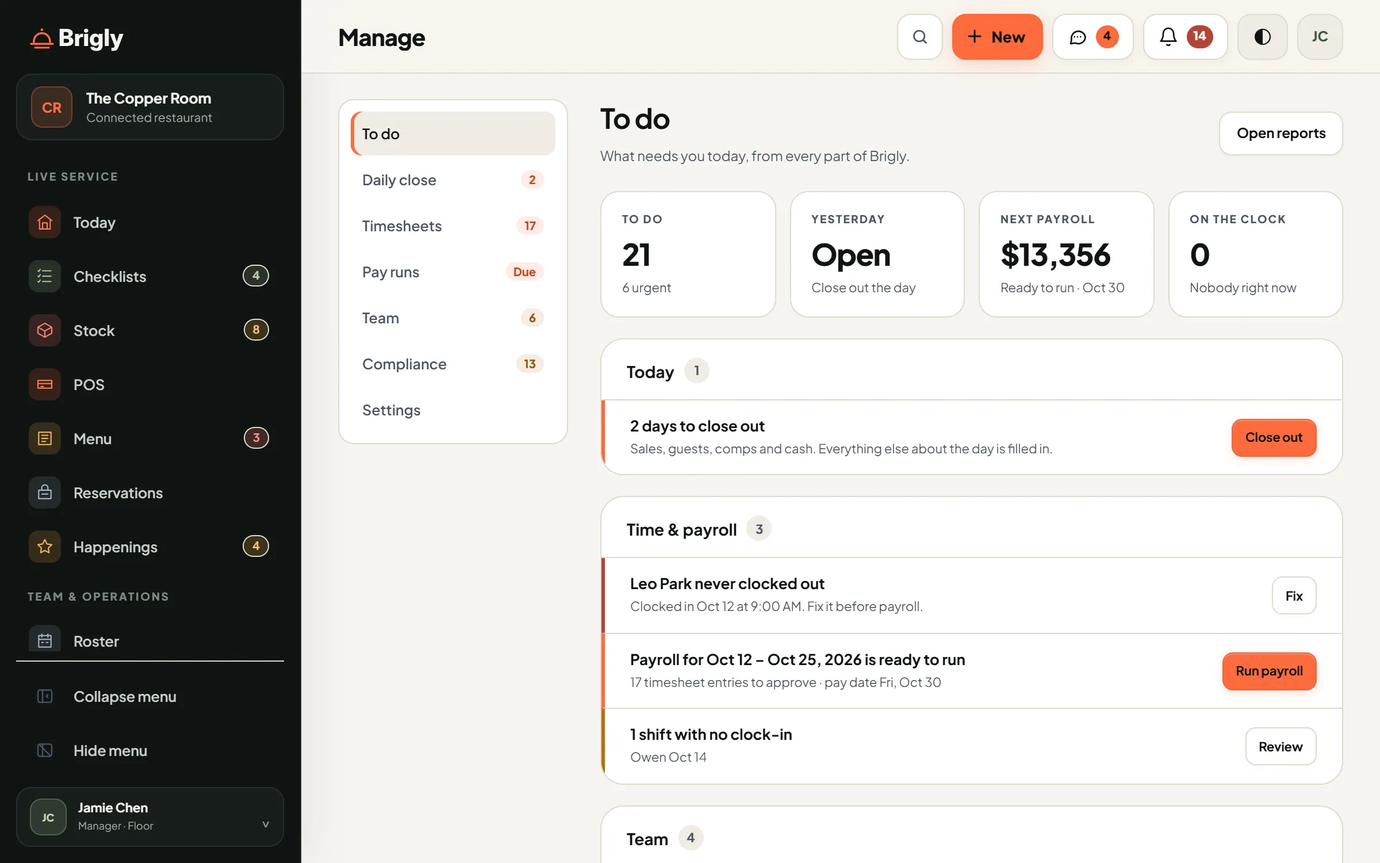
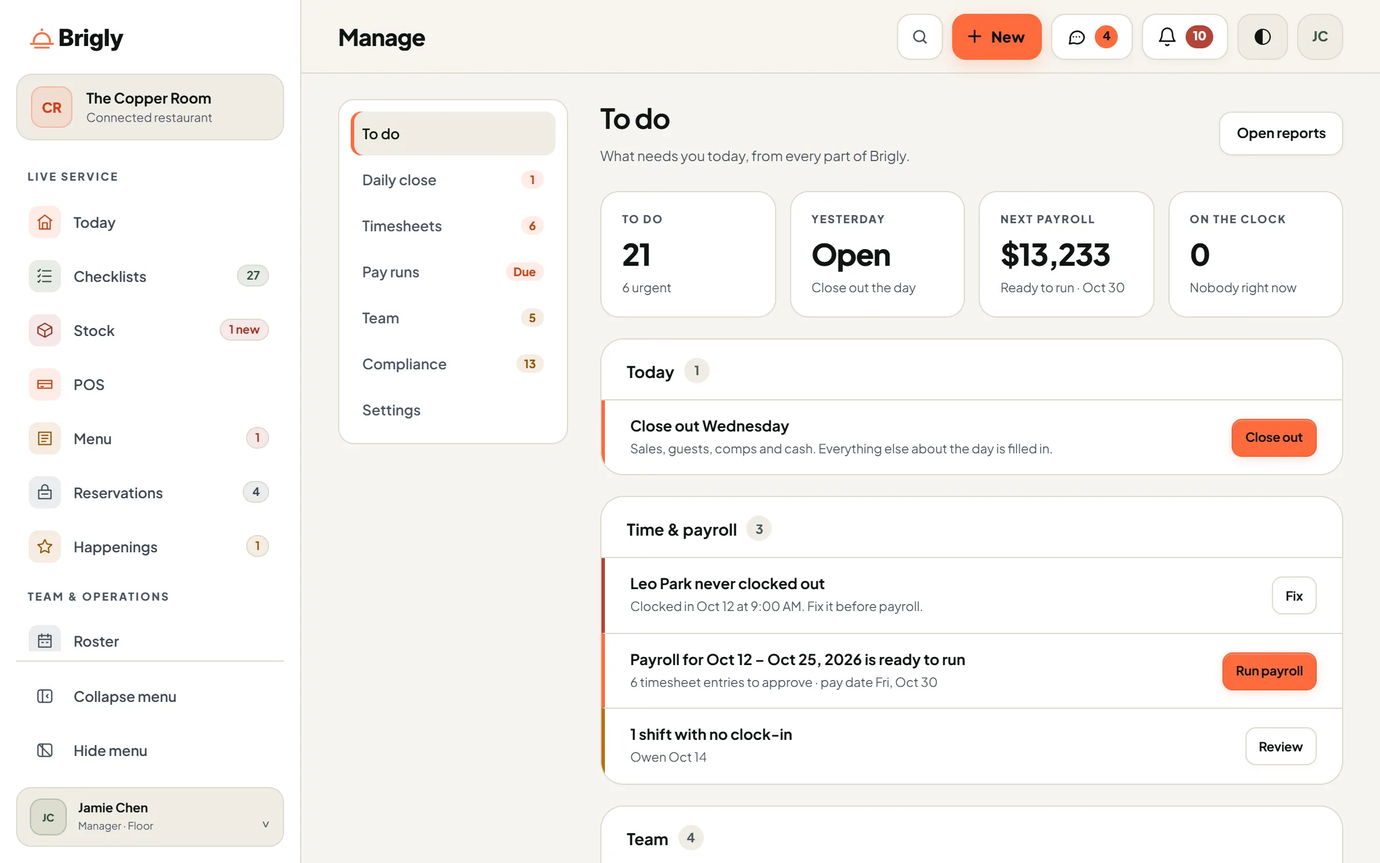
Updates

diff --git a/index.html b/index.html
@@ -12,12 +12,12 @@
   <meta property="og:image" content="assets/images/social-preview.png">
   <link rel="icon" href="assets/icons/favicon.svg" type="image/svg+xml">
   <link rel="manifest" href="site.webmanifest">
-  <script src="assets/js/site-theme.js?v=2026.10.29.10"></script>
+  <script src="assets/js/site-theme.js?v=2026.10.29.11"></script>
   <link rel="preload" href="assets/fonts/plus-jakarta-sans.ttf" as="font" type="font/ttf" crossorigin>
   <link rel="preload" href="assets/images/screens/today-desktop-dark.webp" as="image" type="image/webp" media="(min-width: 900px)">
   <link rel="preload" href="assets/images/screens/today-phone-dark.webp" as="image" type="image/webp" media="(max-width: 899px)">
-  <link rel="stylesheet" href="assets/css/site.css?v=2026.10.29.10">
-  <script src="assets/js/site.js?v=2026.10.29.10" defer></script>
+  <link rel="stylesheet" href="assets/css/site.css?v=2026.10.29.11">
+  <script src="assets/js/site.js?v=2026.10.29.11" defer></script>
 </head>
 <body>
   <a class="skip-link" href="#main">Skip to content</a>
@@ -80,16 +80,12 @@
             <div class="bar" aria-hidden="true"><i></i><i></i><i></i><span>Live preview · no sign-up · Today at The Copper Room</span></div>
             <div class="screen">
               <img class="shot" src="assets/images/screens/today-desktop-dark.webp" data-light="assets/images/screens/today-desktop-light.webp" alt="The Brigly Today screen for a manager: the live dinner shift, sales so far, items 86'd and the pre-shift briefing." width="1200" height="750" fetchpriority="high" decoding="async">
-              <div class="live" data-kind="desktop" data-src="demo.html?embed=1&screen=home&as=manager" data-title="The Brigly Today screen, live, in the manager view"></div>
-              <button type="button" class="make-live" data-live-toggle aria-label="Make this preview live">Make it live <span aria-hidden="true">▸</span></button>
             </div>
           </div>
           <div class="device phone">
             <div class="island" aria-hidden="true"></div>
             <div class="screen">
               <img class="shot" src="assets/images/screens/today-phone-dark.webp" data-light="assets/images/screens/today-phone-light.webp" alt="The same Today screen on a phone." width="390" height="780" fetchpriority="high" decoding="async">
-              <div class="live" data-kind="phone" data-src="demo.html?embed=phone&screen=home&as=manager" data-title="The Brigly Today screen on a phone, live"></div>
-              <button type="button" class="make-live" data-live-toggle aria-label="Make this preview live">Make it live <span aria-hidden="true">▸</span></button>
             </div>
           </div>
         </div>
@@ -212,8 +208,6 @@
             <div class="bar" aria-hidden="true"><i></i><i></i><i></i><span>Today · Shift Onboarding &amp; Overview</span></div>
             <div class="screen">
               <img class="shot" src="assets/images/screens/briefing-desktop-dark.webp" data-light="assets/images/screens/briefing-desktop-light.webp" alt="Shift Onboarding in Brigly, opened from a server’s Today screen: the dinner shift approved by the manager, the seven people on shift by station, the handover from lunch with rollover tasks clear, and the manager’s handover notes, waiting for the server’s acknowledgment." width="1200" height="750" loading="lazy" decoding="async">
-              <div class="live" data-kind="desktop" data-src="demo.html?embed=1&screen=home&as=crew" data-title="A server’s Today screen with the shift briefing, live"></div>
-              <button type="button" class="make-live" data-live-toggle aria-label="Make this preview live">Make it live <span aria-hidden="true">▸</span></button>
             </div>
           </div>
             </div>
@@ -241,16 +235,12 @@
             <div class="bar" aria-hidden="true"><i></i><i></i><i></i><span>Training · For you · Alex Morgan, server at The Copper Room</span></div>
             <div class="screen">
               <img class="shot" src="assets/images/screens/training-crew-desktop-dark.webp" data-light="assets/images/screens/training-crew-desktop-light.webp" alt="A server’s Training screen in Brigly: level and XP, a three-day streak, the weekly goal, the course to continue, a duel from a teammate and badges." width="1200" height="750" loading="lazy" decoding="async">
-              <div class="live" data-kind="desktop" data-src="demo.html?embed=1&screen=training&as=crew" data-title="Brigly Training, live, in the staff view"></div>
-              <button type="button" class="make-live" data-live-toggle aria-label="Make this preview live">Make it live <span aria-hidden="true">▸</span></button>
             </div>
           </div>
           <div class="device phone">
             <div class="island" aria-hidden="true"></div>
             <div class="screen">
               <img class="shot" src="assets/images/screens/training-crew-phone-dark.webp" data-light="assets/images/screens/training-crew-phone-light.webp" alt="The same Training screen on a phone." width="390" height="780" loading="lazy" decoding="async">
-              <div class="live" data-kind="phone" data-src="demo.html?embed=phone&screen=training&as=crew" data-title="Brigly Training on a phone, live"></div>
-              <button type="button" class="make-live" data-live-toggle aria-label="Make this preview live">Make it live <span aria-hidden="true">▸</span></button>
             </div>
           </div>
             </div>
@@ -274,8 +264,6 @@
             <div class="island" aria-hidden="true"></div>
             <div class="screen">
               <img class="shot" src="assets/images/screens/checklists-crew-phone-dark.webp" data-light="assets/images/screens/checklists-crew-phone-light.webp" alt="The Checklists screen on a server’s phone: Floor, Bar and Kitchen stations, the opening list seven of eight done, an overdue stock count assigned to Mia, and tasks done by name and time." width="390" height="780" loading="lazy" decoding="async">
-              <div class="live" data-kind="phone" data-src="demo.html?embed=phone&view=lists&as=crew" data-title="Brigly Checklists on a phone, live"></div>
-              <button type="button" class="make-live" data-live-toggle aria-label="Make this preview live">Make it live <span aria-hidden="true">▸</span></button>
             </div>
           </div>
             </div>
@@ -299,8 +287,6 @@
             <div class="bar" aria-hidden="true"><i></i><i></i><i></i><span>Manage · To do · what needs you today</span></div>
             <div class="screen">
               <img class="shot" src="assets/images/screens/manage-desktop-dark.webp" data-light="assets/images/screens/manage-desktop-light.webp" alt="The manager’s To do screen in Brigly: twenty-one items from every part of the app, six urgent, grouped by Today, Time & payroll and Team, each with its action button." width="1200" height="750" loading="lazy" decoding="async">
-              <div class="live" data-kind="desktop" data-src="demo.html?embed=1&screen=manage&as=manager" data-title="Brigly Manage, live, in the manager view"></div>
-              <button type="button" class="make-live" data-live-toggle aria-label="Make this preview live">Make it live <span aria-hidden="true">▸</span></button>
             </div>
           </div>
             </div>
@@ -324,8 +310,6 @@
             <div class="bar" aria-hidden="true"><i></i><i></i><i></i><span>My space · Alex Morgan · week of Oct 26</span></div>
             <div class="screen">
               <img class="shot" src="assets/images/screens/me-crew-desktop-dark.webp" data-light="assets/images/screens/me-crew-desktop-light.webp" alt="A server’s My space screen in Brigly: six shifts this week with expected pay and tips, month-to-date earnings, sick leave and paid time off balances, and recent requests, a shift swap and time off, both approved with the manager’s note." width="1200" height="750" loading="lazy" decoding="async">
-              <div class="live" data-kind="desktop" data-src="demo.html?embed=1&screen=me&as=crew" data-title="Brigly My space, live, in the staff view"></div>
-              <button type="button" class="make-live" data-live-toggle aria-label="Make this preview live">Make it live <span aria-hidden="true">▸</span></button>
             </div>
           </div>
             </div>
@@ -349,8 +333,6 @@
             <div class="bar" aria-hidden="true"><i></i><i></i><i></i><span>Team chat · Whole team · 11 people</span></div>
             <div class="screen">
               <img class="shot" src="assets/images/screens/chat-desktop-dark.webp" data-light="assets/images/screens/chat-desktop-light.webp" alt="Team chat in Brigly: channels for the whole team, floor, bar and kitchen crews, a manager channel and direct messages, with a bartender’s photo of the garnish station and a line cook’s 86 note." width="1200" height="750" loading="lazy" decoding="async">
-              <div class="live" data-kind="desktop" data-src="demo.html?embed=1&screen=home&as=manager&open=chat" data-title="Brigly team chat, live"></div>
-              <button type="button" class="make-live" data-live-toggle aria-label="Make this preview live">Make it live <span aria-hidden="true">▸</span></button>
             </div>
           </div>
             </div>
@@ -374,16 +356,12 @@
             <div class="island" aria-hidden="true"></div>
             <div class="screen">
               <img class="shot" src="assets/images/screens/myfile-crew-phone-dark.webp" data-light="assets/images/screens/myfile-crew-phone-light.webp" alt="My file on a server’s phone: hourly rate, sick leave and paid time off balances, start date, nothing on file under warnings, and a 90-day review." width="390" height="780" loading="lazy" decoding="async">
-              <div class="live" data-kind="phone" data-src="demo.html?embed=phone&screen=myfile&as=crew" data-title="Brigly My file on a phone, live"></div>
-              <button type="button" class="make-live" data-live-toggle aria-label="Make this preview live">Make it live <span aria-hidden="true">▸</span></button>
             </div>
           </div>
           <div class="device phone">
             <div class="island" aria-hidden="true"></div>
             <div class="screen">
               <img class="shot" src="assets/images/screens/earnings-crew-phone-dark.webp" data-light="assets/images/screens/earnings-crew-phone-light.webp" alt="My earnings on the same phone: hours clocked this period, the gross estimate, leave balances and the last paycheck." width="390" height="780" loading="lazy" decoding="async">
-              <div class="live" data-kind="phone" data-src="demo.html?embed=phone&screen=earnings&as=crew" data-title="Brigly earnings on a phone, live"></div>
-              <button type="button" class="make-live" data-live-toggle aria-label="Make this preview live">Make it live <span aria-hidden="true">▸</span></button>
             </div>
           </div>
             </div>
@@ -432,8 +410,6 @@
                 <div class="bar" aria-hidden="true"><i></i><i></i><i></i><span>Scheduling · Oct 26 – Nov 1</span></div>
                 <div class="screen">
                   <img class="shot" src="assets/images/screens/schedule-desktop-dark.webp" data-light="assets/images/screens/schedule-desktop-light.webp" alt="The weekly schedule in Brigly: shift templates for lunch, dinner and brunch, and the team grid by day." width="1200" height="750" loading="lazy" decoding="async">
-                  <div class="live" data-kind="desktop" data-src="demo.html?embed=1&screen=shifts&as=manager" data-title="The Brigly schedule, live"></div>
-                  <button type="button" class="make-live" data-live-toggle aria-label="Make this preview live">Make it live <span aria-hidden="true">▸</span></button>
                 </div>
               </div>
             </div>
@@ -456,8 +432,6 @@
                 <div class="bar" aria-hidden="true"><i></i><i></i><i></i><span>Checklists · Floor · Opening</span></div>
                 <div class="screen">
                   <img class="shot" src="assets/images/screens/checklists-desktop-dark.webp" data-light="assets/images/screens/checklists-desktop-light.webp" alt="Opening checklists in Brigly for the floor, bar and kitchen, with an overdue stock count flagged." width="1200" height="750" loading="lazy" decoding="async">
-                  <div class="live" data-kind="desktop" data-src="demo.html?embed=1&view=lists&as=manager" data-title="Brigly checklists, live"></div>
-                  <button type="button" class="make-live" data-live-toggle aria-label="Make this preview live">Make it live <span aria-hidden="true">▸</span></button>
                 </div>
               </div>
             </div>
@@ -480,8 +454,6 @@
                 <div class="bar" aria-hidden="true"><i></i><i></i><i></i><span>POS · Floor · Dinner</span></div>
                 <div class="screen">
                   <img class="shot" src="assets/images/screens/pos-desktop-dark.webp" data-light="assets/images/screens/pos-desktop-light.webp" alt="The Brigly POS floor view: tables by section, open checks, takeout and delivery tickets." width="1200" height="750" loading="lazy" decoding="async">
-                  <div class="live" data-kind="desktop" data-src="demo.html?embed=1&view=pos&as=manager" data-title="The Brigly POS, live"></div>
-                  <button type="button" class="make-live" data-live-toggle aria-label="Make this preview live">Make it live <span aria-hidden="true">▸</span></button>
                 </div>
               </div>
             </div>
@@ -503,8 +475,6 @@
                 <div class="bar" aria-hidden="true"><i></i><i></i><i></i><span>Reports · Executive · 12 weeks</span></div>
                 <div class="screen">
                   <img class="shot" src="assets/images/screens/reports-desktop-dark.webp" data-light="assets/images/screens/reports-desktop-light.webp" alt="Brigly reports: net sales, labor as a share of sales, prime cost and on-time arrivals over twelve weeks." width="1200" height="750" loading="lazy" decoding="async">
-                  <div class="live" data-kind="desktop" data-src="demo.html?embed=1&screen=reports&as=manager" data-title="Brigly reports, live"></div>
-                  <button type="button" class="make-live" data-live-toggle aria-label="Make this preview live">Make it live <span aria-hidden="true">▸</span></button>
                 </div>
               </div>
             </div>
@@ -594,7 +564,7 @@
         <div class="faq-list reveal">
           <details open>
             <summary>Is this real? Can I try it?<span>+</span></summary>
-            <p>Yes. Every screenshot on this page comes from the working app, and “Make it live” swaps any of them for the real thing, running in your browser. The demo is a fictional restaurant, The Copper Room, with six months of sample history. There is no sign-up. <a href="demo.html" data-cta="faq-try">Try the live demo</a>.</p>
+            <p>Yes. Every screenshot on this page comes from the working app, and the demo is that same app, running in your browser. The demo is a fictional restaurant, The Copper Room, with six months of sample history. There is no sign-up. <a href="demo.html" data-cta="faq-try">Try the live demo</a>.</p>
           </details>
           <details>
             <summary>What does it cost?<span>+</span></summary>

diff --git a/assets/css/app-layout.css b/assets/css/app-layout.css
@@ -6249,3 +6249,75 @@ tr.is-muted{opacity:.6}
  .ps-order-body.is-readonly .ps-rail{display:grid}
  .ps-sheet-grid{grid-template-columns:1fr}
 }
+
+/* Light-theme sidebar: the charcoal sidebar above is the dark look; in light mode the sidebar follows the theme tokens (requested 2026-10-29). */
+@media(min-width:761px){
+  :root[data-theme="light"] .sidebar{background:var(--surface)!important;color:var(--ink)!important;border-right:1px solid var(--line)!important;box-shadow:none}
+  :root[data-theme="light"] .sidebar .brand img:not(.brand-mark){content:url("../logos/brigly-on-light.svg")}
+  :root[data-theme="light"] .sidebar .venue{background:var(--surface-soft);border-color:var(--line)}
+  :root[data-theme="light"] .sidebar .venue strong{color:var(--ink)}
+  :root[data-theme="light"] .sidebar .venue small{color:var(--muted)}
+  :root[data-theme="light"] .sidebar .venue-icon{background:var(--tone-orange-bg);color:var(--tone-orange-fg);border-color:var(--tone-orange-bd)}
+  :root[data-theme="light"] .sidebar .nav-group>p{color:var(--muted)}
+  :root[data-theme="light"] .sidebar .nav-group button{color:var(--tone-slate-fg)}
+  :root[data-theme="light"] .sidebar .nav-group button:hover{background:var(--surface-soft);color:var(--ink)}
+  :root[data-theme="light"] .sidebar .nav-group button.active{background:var(--surface-soft);color:var(--ink)!important;border-color:var(--line);box-shadow:inset 3px 0 0 var(--orange)}
+  :root[data-theme="light"] .sidebar button[data-tone="orange"] .nav-icon{background:var(--tone-orange-bg);color:var(--tone-orange-fg)}
+  :root[data-theme="light"] .sidebar button[data-tone="sage"] .nav-icon{background:var(--tone-sage-bg);color:var(--tone-sage-fg)}
+  :root[data-theme="light"] .sidebar button[data-tone="amber"] .nav-icon{background:var(--tone-amber-bg);color:var(--tone-amber-fg)}
+  :root[data-theme="light"] .sidebar button[data-tone="danger"] .nav-icon{background:var(--tone-danger-bg);color:var(--tone-danger-fg)}
+  :root[data-theme="light"] .sidebar button[data-tone="slate"] .nav-icon{background:var(--tone-slate-bg);color:var(--tone-slate-fg)}
+  :root[data-theme="light"] .sidebar .nav-pill[data-tone="orange"]{background:var(--tone-orange-bg);color:var(--tone-orange-fg)}
+  :root[data-theme="light"] .sidebar .nav-pill[data-tone="sage"]{background:var(--tone-sage-bg);color:var(--tone-sage-fg)}
+  :root[data-theme="light"] .sidebar .nav-pill[data-tone="amber"]{background:var(--tone-amber-bg);color:var(--tone-amber-fg)}
+  :root[data-theme="light"] .sidebar .nav-pill[data-tone="danger"]{background:var(--tone-danger-bg);color:var(--tone-danger-fg)}
+  :root[data-theme="light"] .sidebar .nav-pill[data-tone="slate"]{background:var(--tone-slate-bg);color:var(--tone-slate-fg)}
+  :root[data-theme="light"] .sidebar .nav-number.alert-count{background:var(--surface-soft);color:var(--muted)}
+  :root[data-theme="light"] .sidebar .sidebar-profile{background:var(--surface-soft);border-color:var(--line);color:var(--ink)}
+  :root[data-theme="light"] .sidebar .sidebar-profile:hover{background:var(--surface-soft);border-color:#C9C3B6}
+  :root[data-theme="light"] .sidebar .sidebar-profile small,:root[data-theme="light"] .sidebar .sidebar-profile>span:last-child{color:var(--muted)}
+  :root[data-theme="light"] .sidebar .sidebar-profile .avatar{background:var(--tone-sage-bg);border-color:var(--tone-sage-bd);color:var(--tone-sage-fg)}
+  :root[data-theme="light"] .sidebar .sidebar-bottom{border-top-color:var(--line)}
+  :root[data-theme="light"] .sidebar .role-label{color:var(--muted)}
+  :root[data-theme="light"] .sidebar select{background:var(--surface);border-color:var(--line);color:var(--ink)}
+  :root[data-theme="light"] .sidebar-pulse{background:var(--surface-soft);border-color:var(--line)}
+  :root[data-theme="light"] .sidebar-pulse:hover{border-color:var(--orange)}
+  :root[data-theme="light"] .sidebar-pulse strong{color:var(--ink)}
+  :root[data-theme="light"] .sidebar-pulse small{color:var(--muted)}
+  :root[data-theme="light"] .sidebar-pulse .pulse-bell{background:var(--tone-orange-bg);border-color:var(--tone-orange-bd);color:var(--tone-orange-fg)}
+  :root[data-theme="light"] #sidebar-notif-badge[data-urgent="false"]{background:var(--surface);color:var(--ink)}
+}
+
+/* Light-theme Today shift card: the dark gradient card is the dark look; in light mode it follows the theme (requested 2026-10-29). */
+:root[data-theme="light"] .td-hero{background:linear-gradient(135deg,#FFFFFF 0%,#F3F0E8 100%);border-color:var(--line);color:var(--ink);box-shadow:var(--card-shadow,0 1px 2px rgba(15,20,18,.04),0 6px 18px rgba(15,20,18,.04))}
+:root[data-theme="light"] .td-hero::after{background:radial-gradient(circle,rgba(255,107,61,.18),transparent 68%)}
+:root[data-theme="light"] .td-hero-eyebrow{color:var(--muted)}
+:root[data-theme="light"] .td-hero .td-live{--live:#1F8A4C}
+:root[data-theme="light"] .td-hero-status{background:rgba(15,20,18,.06);color:var(--ink);border-color:rgba(15,20,18,.12)}
+:root[data-theme="light"] .td-hero-status[data-tone="sage"]{background:var(--tone-sage-bg);color:var(--tone-sage-fg);border-color:var(--tone-sage-bd)}
+:root[data-theme="light"] .td-hero-status[data-tone="amber"]{background:var(--tone-amber-bg);color:var(--tone-amber-fg);border-color:var(--tone-amber-bd)}
+:root[data-theme="light"] .td-hero-status[data-tone="danger"]{background:var(--tone-danger-bg);color:var(--tone-danger-fg);border-color:var(--tone-danger-bd)}
+:root[data-theme="light"] .td-hero-time{color:var(--ink)}
+:root[data-theme="light"] .td-hero-time small,:root[data-theme="light"] .td-hero-clock small,:root[data-theme="light"] .td-hero-count,:root[data-theme="light"] .td-hero .td-person small,:root[data-theme="light"] .td-hero .td-hint,:root[data-theme="light"] .td-hero-tc-text small{color:var(--muted)}
+:root[data-theme="light"] .td-hero-sub,:root[data-theme="light"] .td-hero-solo,:root[data-theme="light"] .td-hero-team>summary,:root[data-theme="light"] .td-hero-tc-text span{color:var(--tone-slate-fg)}
+:root[data-theme="light"] .td-hero-team>summary:hover{color:var(--ink)}
+:root[data-theme="light"] .td-hero-team>summary svg{color:var(--tone-orange-fg)}
+:root[data-theme="light"] .td-hero-bar{background:rgba(15,20,18,.08)}
+:root[data-theme="light"] .td-hero-members{border-top-color:var(--line)}
+:root[data-theme="light"] .td-hero .td-member{color:var(--ink)}
+:root[data-theme="light"] .td-hero .td-member.is-me,:root[data-theme="light"] .td-hero .td-member:hover{background:rgba(15,20,18,.05)}
+:root[data-theme="light"] .td-hero .td-avatar,:root[data-theme="light"] .td-hero .td-stack>span{background:var(--surface-soft);border-color:#FFFFFF;color:var(--ink)}
+:root[data-theme="light"] .td-hero .td-avatar[data-tone="orange"],:root[data-theme="light"] .td-hero .td-stack>span[data-tone="orange"]{background:var(--tone-orange-bg);color:var(--tone-orange-fg)}
+:root[data-theme="light"] .td-hero .td-avatar[data-tone="slate"],:root[data-theme="light"] .td-hero .td-stack>span[data-tone="slate"]{background:var(--tone-slate-bg);color:var(--tone-slate-fg)}
+:root[data-theme="light"] .td-hero .td-avatar[data-tone="sage"],:root[data-theme="light"] .td-hero .td-stack>span[data-tone="sage"]{background:var(--tone-sage-bg);color:var(--tone-sage-fg)}
+:root[data-theme="light"] .td-hero-tc{background:rgba(15,20,18,.04);border-color:var(--line)}
+:root[data-theme="light"] .td-hero-tc[data-state="on"]{background:var(--tone-sage-bg);border-color:var(--tone-sage-bd)}
+:root[data-theme="light"] .td-hero-tc[data-state="break"]{background:var(--tone-amber-bg);border-color:var(--tone-amber-bd)}
+:root[data-theme="light"] .td-hero-tc[data-state="ready"]{border-color:var(--tone-orange-bd)}
+:root[data-theme="light"] .td-hero-tc[data-state="on"] .td-hero-tc-text small{color:var(--tone-sage-fg)}
+:root[data-theme="light"] .td-hero-tc[data-state="break"] .td-hero-tc-text small{color:var(--tone-amber-fg)}
+:root[data-theme="light"] .td-hero-tc[data-state="ready"] .td-hero-tc-text small{color:var(--tone-orange-fg)}
+:root[data-theme="light"] .td-hero-tc .button.secondary{background:#FFFFFF;color:var(--ink);border-color:var(--line)}
+:root[data-theme="light"] .td-hero-tc .button.secondary:hover:not(:disabled){background:var(--surface-soft);border-color:#C9C3B6}
+:root[data-theme="light"] .td-hero-jump{background:var(--tone-orange-bg);border-color:var(--tone-orange-bd);color:var(--tone-orange-fg)}
+

diff --git a/assets/js/site.js b/assets/js/site.js
@@ -7,70 +7,7 @@
   const clamp=(v,a,b)=>Math.min(b,Math.max(a,v));
   if(!reduced)root.classList.add('motion');
 
-  /* =====================================================================
-     Live app previews. Every product visual is a static screenshot; the
-     real app only boots into a `.live[data-src]` host when the visitor
-     asks ("Make it live"), and only one instance runs at a time.
-     ===================================================================== */
-  const BASE={desktop:[1200,750],phone:[390,780]};
   const themeNow=()=>root.dataset.theme==='light'?'light':'dark';
-  function applyTheme(frame){try{frame.contentDocument.documentElement.dataset.theme=themeNow();}catch{}}
-  function fit(host){
-    const screen=host.closest('.screen');if(!screen)return;
-    const [w]=BASE[host.dataset.kind==='phone'?'phone':'desktop'];
-    host.style.setProperty('--s',(screen.clientWidth/w).toFixed(4));
-  }
-  const fitter=new ResizeObserver(entries=>entries.forEach(en=>en.target.querySelectorAll('.live').forEach(fit)));
-  all('.screen').forEach(s=>fitter.observe(s));
-
-  let current=null;
-  const openUrl=src=>src.replace(/embed=[^&]*&?/,'').replace(/[?&]$/,'');
-  function unmount(host){
-    if(!host||!host.dataset.state)return;
-    host.querySelector('iframe')?.remove();
-    delete host.dataset.state;
-    const btn=host.parentElement.querySelector('[data-live-toggle]');
-    if(btn){btn.replaceWith(liveButton());}
-    if(current===host)current=null;
-  }
-  function liveButton(){
-    const b=document.createElement('button');
-    b.type='button';b.className='make-live';b.dataset.liveToggle='';b.setAttribute('aria-label','Make this preview live');
-    b.innerHTML='Make it live <span aria-hidden="true">▸</span>';
-    return b;
-  }
-  function mount(host,btn){
-    if(!host||host.dataset.state)return;
-    if(current&&current!==host)unmount(current);
-    current=host;host.dataset.state='loading';
-    if(btn){btn.dataset.state='loading';btn.innerHTML='Loading the app <span aria-hidden="true">◌</span>';btn.disabled=true;}
-    const f=document.createElement('iframe');
-    f.src=host.dataset.src;f.title=host.dataset.title||'Brigly app preview';
-    f.setAttribute('tabindex','-1');f.loading='eager';
-    let done=false;
-    const ready=()=>{
-      if(done)return;done=true;
-      if(!f.isConnected)return;
-      applyTheme(f);fit(host);host.dataset.state='ready';
-      if(btn){
-        const a=document.createElement('a');
-        a.className='make-live';a.href=openUrl(host.dataset.src);a.target='_blank';a.rel='noopener';a.dataset.cta='live-open';
-        a.innerHTML='Live · open in the demo <span aria-hidden="true">↗</span>';
-        btn.replaceWith(a);
-      }
-    };
-    f.addEventListener('load',()=>setTimeout(ready,120));
-    setTimeout(ready,12000);
-    fit(host);host.appendChild(f);
-  }
-  document.addEventListener('click',e=>{
-    const btn=e.target.closest('[data-live-toggle]');if(!btn)return;
-    const host=btn.parentElement.querySelector('.live[data-src]');
-    mount(host,btn);
-  });
-  // A live instance inside a device the breakpoint hides is dropped.
-  const visible=h=>h.getClientRects().length>0;
-  desktop.addEventListener('change',()=>{if(current&&!visible(current))unmount(current);});
 
   /* ---------- Theme (shared `brigly-theme` key with the app) ---------- */
   function swapShots(){
@@ -90,7 +27,6 @@
   function setTheme(next){
     root.dataset.theme=next;
     try{localStorage.setItem('brigly-theme',next);}catch{}
-    all('.live iframe').forEach(applyTheme);
     swapShots();themeLabels();
   }
   document.addEventListener('click',e=>{const b=e.target.closest('[data-action="theme"]');if(b)setTheme(themeNow()==='light'?'dark':'light');});
@@ -148,7 +84,7 @@
     const panels=list.map(t=>document.getElementById(t.getAttribute('aria-controls')));
     function select(i,focus){
       list.forEach((t,j)=>{const on=j===i;t.setAttribute('aria-selected',on?'true':'false');t.tabIndex=on?0:-1;});
-      panels.forEach((p,j)=>{const on=j===i;if(on&&p.hidden){p.hidden=false;p.classList.remove('enter');void p.offsetWidth;p.classList.add('enter');}else if(!on){p.hidden=true;p.querySelectorAll('.live[data-state]').forEach(unmount);}});
+      panels.forEach((p,j)=>{const on=j===i;if(on&&p.hidden){p.hidden=false;p.classList.remove('enter');void p.offsetWidth;p.classList.add('enter');}else if(!on)p.hidden=true;});
       if(focus)list[i].focus();
       list[i].scrollIntoView({block:'nearest',inline:'nearest',behavior:reduced?'auto':'smooth'});
     }

diff --git a/demo.html b/demo.html
@@ -3,7 +3,7 @@
 <head>
 <meta charset="utf-8"><meta name="viewport" content="width=device-width, initial-scale=1, viewport-fit=cover"><meta name="theme-color" content="#F6F4EF"><meta name="robots" content="noindex"><meta name="description" content="Brigly brings your team, shift preparation and restaurant service together.">
 <script src="assets/js/app-theme.js?v=2026.10.28.7"></script><link rel="manifest" href="app.webmanifest"><meta name="apple-mobile-web-app-capable" content="yes"><title>Today · Brigly</title>
-<link rel="icon" href="assets/icons/favicon.svg" type="image/svg+xml"><link rel="preload" href="assets/fonts/plus-jakarta-sans.ttf" as="font" type="font/ttf" crossorigin><link rel="stylesheet" href="assets/css/demo.css?v=2026.10.28.7"><link rel="stylesheet" href="assets/css/app-layout.css?v=2026.10.28.7"><script src="assets/js/workspace-state.js?v=2026.10.28.7" defer></script><script src="assets/js/schedule-state.js?v=2026.10.28.7" defer></script><script src="assets/js/shift-operations-state.js?v=2026.10.28.7" defer></script><script src="assets/js/demo-history.js?v=2026.10.28.7" defer></script><script src="assets/js/restaurant-history.js?v=2026.10.28.7" defer></script><script src="assets/js/planner-state.js?v=2026.10.28.7" defer></script><script src="assets/js/planner-ui.js?v=2026.10.28.7" defer></script><script src="assets/js/shift-operations-ui.js?v=2026.10.28.7" defer></script><script src="assets/js/duties-state.js?v=2026.10.28.7" defer></script>
+<link rel="icon" href="assets/icons/favicon.svg" type="image/svg+xml"><link rel="preload" href="assets/fonts/plus-jakarta-sans.ttf" as="font" type="font/ttf" crossorigin><link rel="stylesheet" href="assets/css/demo.css?v=2026.10.28.7"><link rel="stylesheet" href="assets/css/app-layout.css?v=2026.10.29.2"><script src="assets/js/workspace-state.js?v=2026.10.28.7" defer></script><script src="assets/js/schedule-state.js?v=2026.10.28.7" defer></script><script src="assets/js/shift-operations-state.js?v=2026.10.28.7" defer></script><script src="assets/js/demo-history.js?v=2026.10.28.7" defer></script><script src="assets/js/restaurant-history.js?v=2026.10.28.7" defer></script><script src="assets/js/planner-state.js?v=2026.10.28.7" defer></script><script src="assets/js/planner-ui.js?v=2026.10.28.7" defer></script><script src="assets/js/shift-operations-ui.js?v=2026.10.28.7" defer></script><script src="assets/js/duties-state.js?v=2026.10.28.7" defer></script>
 <script src="assets/js/checklist-history.js?v=2026.10.28.7" defer></script>
 <script src="assets/js/team-chat-state.js?v=2026.10.28.7" defer></script>
 <script src="assets/js/stock-state.js?v=2026.10.28.7" defer></script>

diff --git a/assets/css/site.css b/assets/css/site.css
@@ -159,16 +159,6 @@ em{font-style:normal;color:var(--orange)}
 .device.phone .island{position:absolute;left:50%;top:16px;transform:translateX(-50%);width:78px;height:20px;border-radius:999px;background:#0b0f0d;z-index:5}
 .screen{position:relative;overflow:hidden;background:var(--surface)}
 .screen .shot{position:absolute;inset:0;width:100%;height:100%;object-fit:cover;object-position:top left}
-.live{position:absolute;inset:0;overflow:hidden;opacity:0;pointer-events:none;transition:opacity .5s ease}
-.live iframe{position:absolute;left:0;top:0;border:0;width:1200px;height:750px;transform-origin:0 0;transform:scale(var(--s,1));background:transparent}
-.live[data-kind="phone"] iframe{width:390px;height:780px}
-.live[data-state="ready"]{opacity:1;pointer-events:auto}
-.make-live{position:absolute;right:12px;bottom:12px;z-index:4;display:inline-flex;align-items:center;gap:6px;min-height:44px;padding:0 14px;border-radius:999px;background:rgba(15,20,18,.82);color:#F6F4EF;font-size:12.5px;font-weight:700;border:1px solid rgba(255,255,255,.16);backdrop-filter:blur(8px);transition:background .2s,transform .2s;box-shadow:0 8px 24px rgba(0,0,0,.35)}
-.make-live:hover{background:rgba(15,20,18,.95);transform:translateY(-1px)}
-.make-live[data-state="loading"]{color:rgba(246,244,239,.7)}
-.make-live[data-state="loading"] span{display:inline-block;animation:spin 1s linear infinite}
-@keyframes spin{to{transform:rotate(360deg)}}
-.device.phone .make-live{right:10px;bottom:10px;font-size:11.5px;padding:0 12px}
 
 /* ---------- Hero ---------- */
 .hero{padding:124px 0 clamp(48px,7vw,96px);position:relative;overflow:clip}
@@ -191,7 +181,6 @@ em{font-style:normal;color:var(--orange)}
   .hero-stage .device.phone{position:absolute;left:-28px;bottom:0;width:168px;z-index:3;box-shadow:0 30px 70px rgba(0,0,0,.55)}
   .hero-stage .device.phone .screen{border-radius:22px}
   .hero-stage .device.phone .island{width:54px;height:14px;top:12px}
-  .hero-stage .device.phone .make-live{display:none}
 }
 @media(min-width:1240px){.hero-stage .device.phone{left:-56px;width:190px}}
 
@@ -371,7 +360,6 @@ em{font-style:normal;color:var(--orange)}
   .training-stage .device.phone{position:absolute;right:-24px;bottom:0;width:160px;z-index:3;box-shadow:0 30px 70px rgba(0,0,0,.55)}
   .training-stage .device.phone .screen{border-radius:22px}
   .training-stage .device.phone .island{width:54px;height:14px;top:12px}
-  .training-stage .device.phone .make-live{display:none}
 }
 @media(min-width:1240px){.training-stage .device.phone{right:-44px;width:180px}}
 

diff --git a/COPY_DECK.md b/COPY_DECK.md
@@ -20,7 +20,7 @@ Page order (2026-10-29 restructure, at Jonas's request to go deeper on team mana
 - **Subhead:** Brigly replaces the scheduling app, the clipboards, the inventory spreadsheet, the training binder and the staff group text with one workspace, so every screen agrees. Built for independent restaurants and bars.
 - **CTA:** Try the live demo → `demo.html` (`hero-primary`). The only element besides the headline and subhead, at Jonas's request (status line, microcopy, secondary CTA and trust line were cut as clutter).
 - **Preview status:** stated once in the device window bar: "Live preview · no sign-up · Today at The Copper Room".
-- **Visual:** static Today screenshots (desktop + phone, dark and light variants), with a "Make it live ▸" button that boots the real app in place.
+- **Visual:** static Today screenshots (desktop + phone, dark and light variants; the light desktop shots were regenerated on 2026-10-29 after the app's sidebar was made to follow the light theme). The "Make it live" buttons that used to boot the real app in place were removed on 2026-10-29 at Jonas's request; the only way into the app is now the demo links.
 - Verified for later use: `demo.html?as=crew` opens the staff view outside embed mode (used in the team section).
 
 ### The five headline options
@@ -211,7 +211,7 @@ Added 2026-10-29 at Jonas's request: three products in development. Jonas then a
 
 - **Eyebrow:** FAQ · **H2:** Fair questions. · **Lede:** Short answers. The demo has the long ones.
 
-1. **Is this real? Can I try it?** Yes. Every screenshot on this page comes from the working app, and "Make it live" swaps any of them for the real thing, running in your browser. The demo is a fictional restaurant, The Copper Room, with six months of sample history. There is no sign-up. Try the live demo (`faq-try`).
+1. **Is this real? Can I try it?** Yes. Every screenshot on this page comes from the working app, and the demo is that same app, running in your browser. The demo is a fictional restaurant, The Copper Room, with six months of sample history. There is no sign-up. Try the live demo (`faq-try`).
 2. **What does it cost?** Brigly is in preview. The demo is free, with no account and no card. Pricing will come later, and it will be built for independents, not enterprise contracts.
 3. **Do I have to replace my POS?** Not to try it. The demo includes Brigly's own POS so you can see what service looks like on one record. How Brigly fits beside an existing POS is a question for the first real customers, and we will be honest about what works.
 4. **What hardware do I need?** None to start. Brigly runs in a browser on the computer, tablet or phone you already have. Card readers, printers and kitchen screens are not part of the preview yet.
